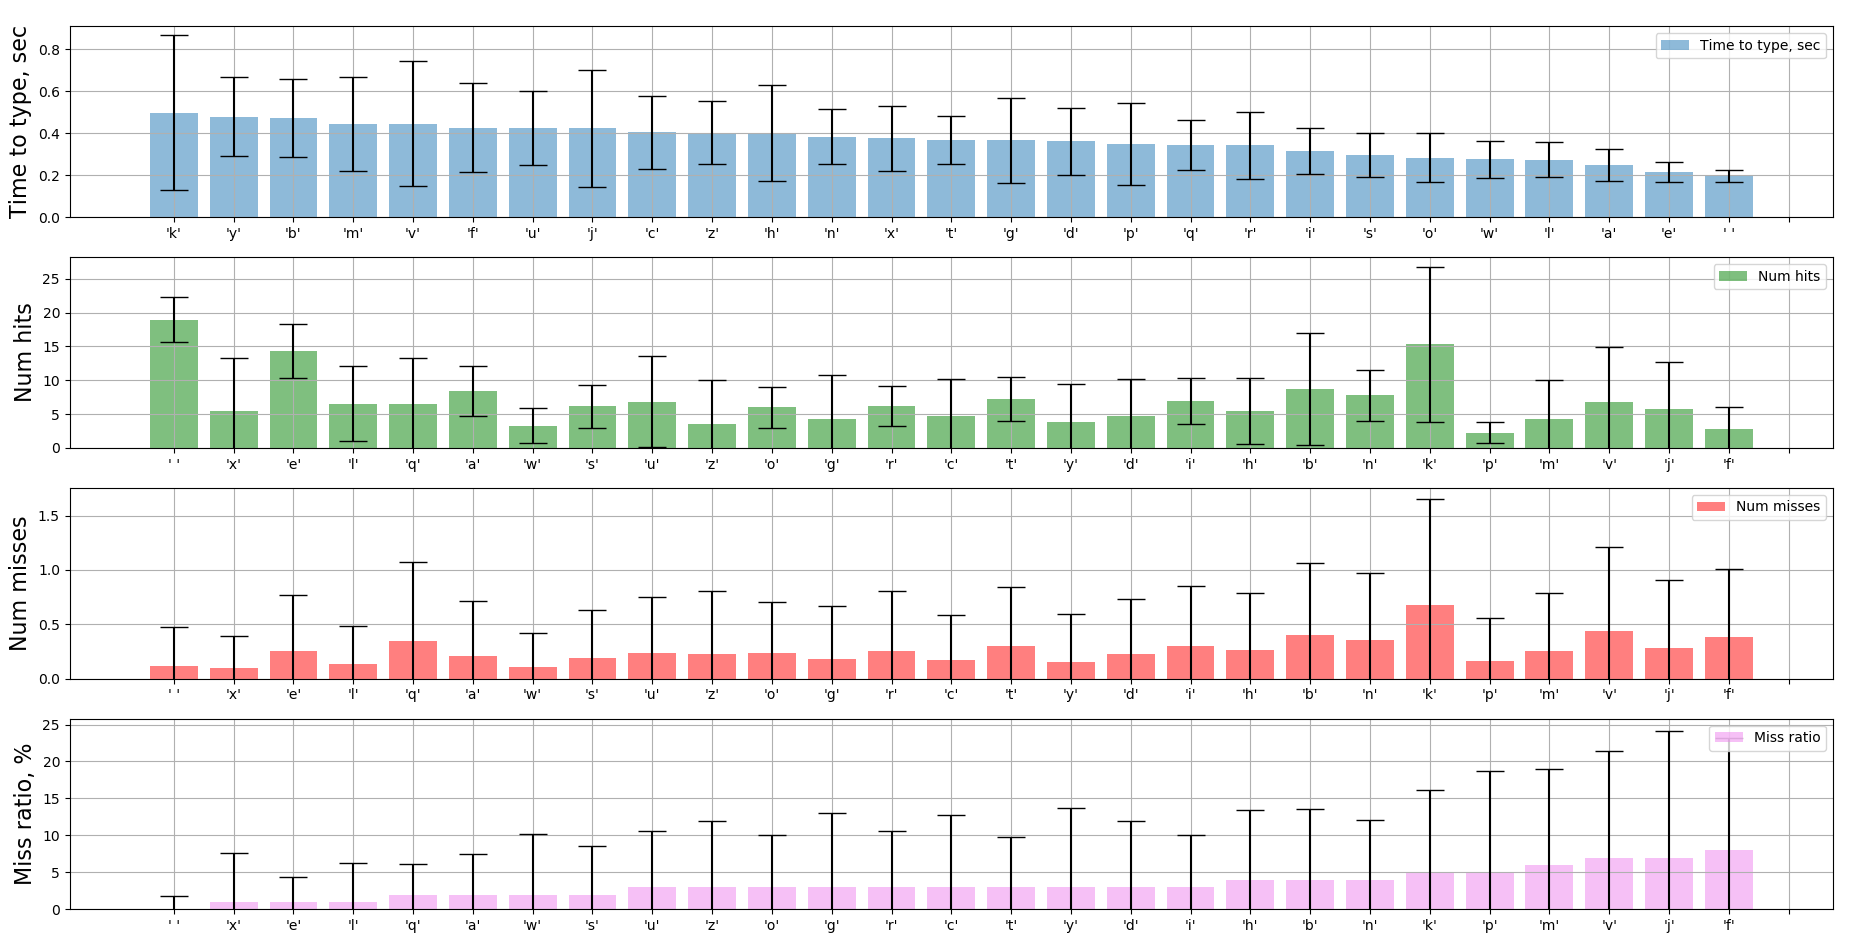
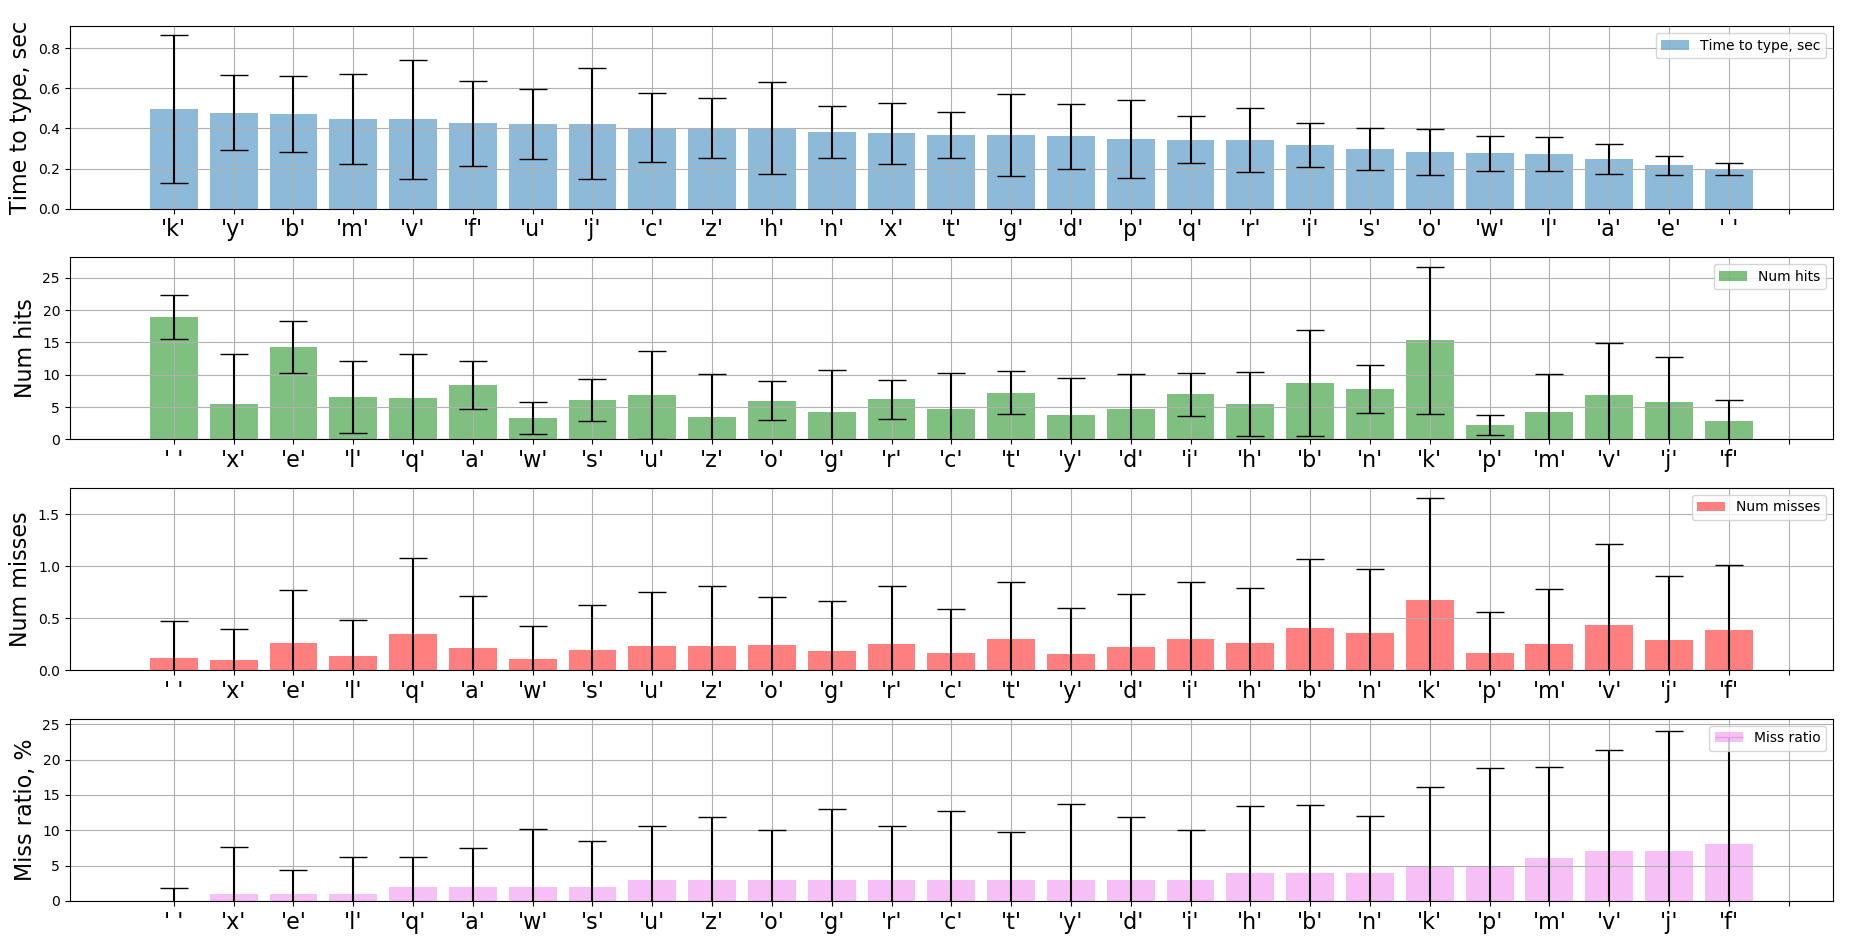
changed fontsize

diff --git a/src/plots.py b/src/plots.py
@@ -97,28 +97,28 @@ def plot_char_stats(data, window):
     ax[0].bar(np.arange(len(y)), y,  yerr=z, align='center', alpha=0.5, ecolor='black',
               capsize=10, label='Time to type, sec')
     ax[0].set_xticks(np.arange(0, len(chars) + 1, 1.0))
-    ax[0].set_xticklabels(list(map(chars_lbls.__getitem__, x)))
+    ax[0].set_xticklabels(list(map(chars_lbls.__getitem__, x)), fontsize = 16)
     ax[0].set_ylabel('Time to type, sec', fontsize = 16)
 
     y, x, z = zip(*sorted(zip(char_mrs, np.arange(len(chars)), char_mrs_std)))
     ax[3].bar(np.arange(len(y)), (np.array(y)).astype(int),  yerr=np.array(z), color = 'violet', align='center', alpha=0.5, ecolor='black',
               capsize=10, label='Miss ratio')
     ax[3].set_xticks(np.arange(0, len(chars) + 1, 1.0))
-    ax[3].set_xticklabels(list(map(chars_lbls.__getitem__, x)))
+    ax[3].set_xticklabels(list(map(chars_lbls.__getitem__, x)), fontsize = 16)
     ax[3].set_ylabel('Miss ratio, %', fontsize = 16)
 
     _, y, x, z = zip(*sorted(zip(char_mrs, char_hits, np.arange(len(chars)), char_hits_std)))
     ax[1].bar(np.arange(len(y)), y,  yerr=z, color = 'green', align='center', alpha=0.5, ecolor='black',
               capsize=10, label='Num hits')
     ax[1].set_xticks(np.arange(0, len(chars) + 1, 1.0))
-    ax[1].set_xticklabels(list(map(chars_lbls.__getitem__, x)))
+    ax[1].set_xticklabels(list(map(chars_lbls.__getitem__, x)), fontsize = 16)
     ax[1].set_ylabel('Num hits', fontsize = 16)
 
     _, y, x, z = zip(*sorted(zip(char_mrs, char_miss, np.arange(len(chars)), char_miss_std)))
     ax[2].bar(np.arange(len(y)), y,  yerr=z, color = 'red', align='center', alpha=0.5, ecolor='black',
               capsize=10, label='Num misses')
     ax[2].set_xticks(np.arange(0, len(chars) + 1, 1.0))
-    ax[2].set_xticklabels(list(map(chars_lbls.__getitem__, x)))
+    ax[2].set_xticklabels(list(map(chars_lbls.__getitem__, x)), fontsize = 16)
     ax[2].set_ylabel('Num misses', fontsize = 16)
 
     for i in range(len(ax)):
